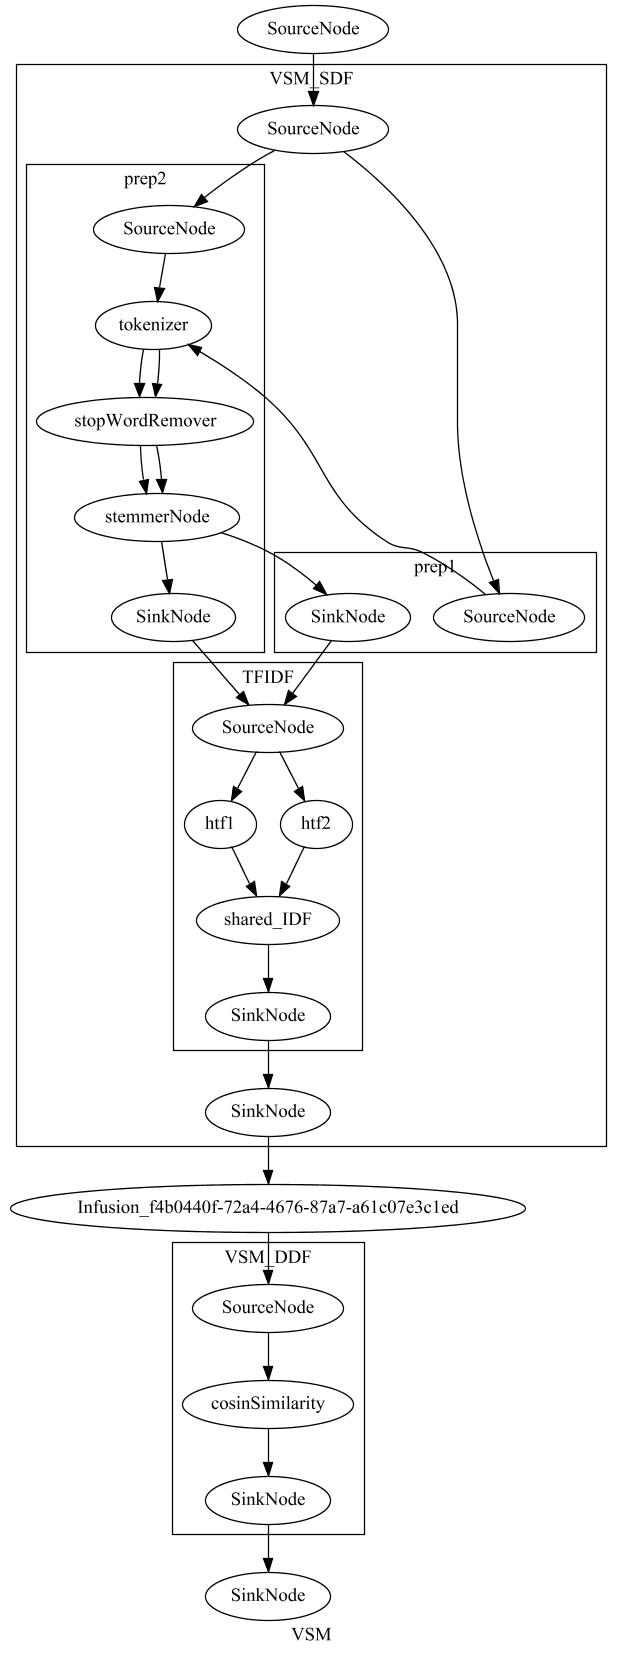
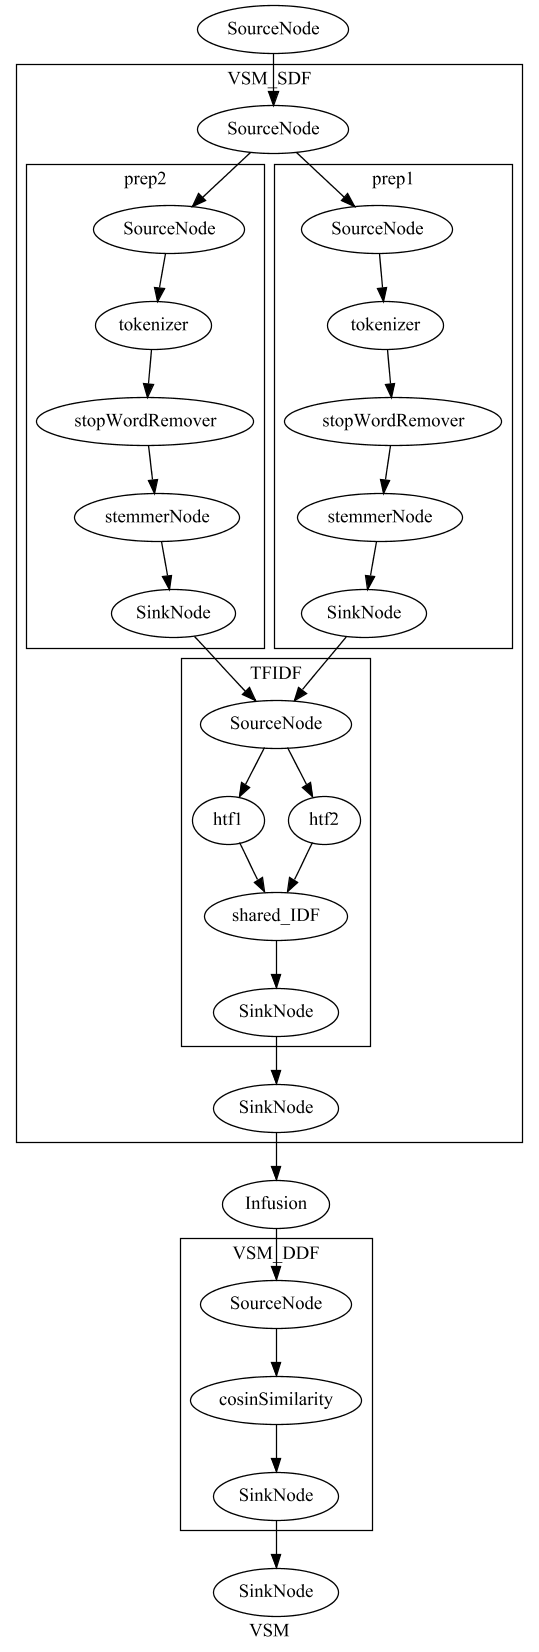
fixed the viz bug

Changed region(s): [[0.1187, 0.0, 0.9796, 1.0], [0.0, 0.0309, 0.0891, 0.71], [0.8312, 0.3087, 0.8609, 0.3396]]

diff --git a/src/main/java/core/graphPipeline/basic/SGraph.java b/src/main/java/core/graphPipeline/basic/SGraph.java
@@ -470,24 +470,22 @@ public class SGraph extends Vertex implements SDFInterface {
     }
 
     public MutableGraph getVizGraph() {
-        MutableGraph g = mutGraph(getVertexId()).setDirected(true).setCluster(true);
+        String vertexPath = getVertexPath();
+        MutableGraph g = mutGraph(vertexPath).setDirected(true).setCluster(true);
         g.graphAttrs().add(Label.of(getVertexId()));
         for (Vertex vertex : this.getNodes()) {
             if (vertex instanceof SNode) {
                 SNode v = (SNode) vertex;
-                if (v.getSparkPipelineStage() instanceof InfusionStage || v instanceof TransparentSNode) {
-                    int i = 0;
-                }
                 String nodeTitle = v.getVertexId();
                 //Simplify the node name
                 if (nodeTitle.startsWith("SourceNode")) {
                     nodeTitle = "SourceNode";
                 } else if (nodeTitle.startsWith("SinkNode")) {
                     nodeTitle = "SinkNode";
-                } else if (nodeTitle.startsWith("infusion")) {
+                } else if (nodeTitle.startsWith("Infusion")) {
                     nodeTitle = "Infusion";
                 }
-                MutableNode vNode = mutNode(v.getVertexId()).add(Label.of(nodeTitle));
+                MutableNode vNode = mutNode(v.getVertexPath()).add(Label.of(nodeTitle));
                 for (Vertex outputNode : v.getOutputVertices()) { //note: sink node have no outputVertices, parent graph hold this information
                     vNode = createVizEdge(vNode, outputNode);
                 }
@@ -497,7 +495,7 @@ public class SGraph extends Vertex implements SDFInterface {
                 SGraph v = (SGraph) vertex;
                 MutableGraph subGraph = v.getVizGraph();
                 Vertex sinkNode = v.sinkNode;
-                MutableNode innerSink = mutNode(sinkNode.getVertexId()).add(Label.of("SinkNode"));
+                MutableNode innerSink = mutNode(sinkNode.getVertexPath()).add(Label.of("SinkNode"));
                 for (Vertex outputNode : vertex.getOutputVertices()) {
                     innerSink = createVizEdge(innerSink, outputNode);
                 }
@@ -509,12 +507,12 @@ public class SGraph extends Vertex implements SDFInterface {
 
     private MutableNode createVizEdge(MutableNode vizFromNode, Vertex outputNode) {
         if (outputNode instanceof SNode) {
-            vizFromNode = vizFromNode.addLink(outputNode.getVertexId());
+            vizFromNode = vizFromNode.addLink(outputNode.getVertexPath());
         } else {
             SGraph subGraph = (SGraph) outputNode;
             SNode innerSource = subGraph.sourceNode;
             MutableGraph innerGraph = subGraph.getVizGraph();// create inner graph, this graph is implicitly added to the parent
-            vizFromNode = vizFromNode.addLink(innerSource.getVertexId());
+            vizFromNode = vizFromNode.addLink(innerSource.getVertexPath());
         }
         return vizFromNode;
     }
@@ -557,7 +555,7 @@ public class SGraph extends Vertex implements SDFInterface {
     }
 
     @Override
-    public Set<String> getSourceSDFOutput()  {
+    public Set<String> getSourceSDFOutput() {
         Set<String> symbolNames = splitSDFOutputs().getKey();
         return getSymbolValuesByName(symbolNames);
     }

diff --git a/src/main/java/core/graphPipeline/basic/Vertex.java b/src/main/java/core/graphPipeline/basic/Vertex.java
@@ -157,6 +157,22 @@ abstract public class Vertex {
         return vertexId;
     }
 
+    /**
+     * Get the global path of the vertex in the whole graph
+     *
+     * @return
+     */
+    public String getVertexPath() {
+        String prefix = "";
+        if (getContext() != null) {
+            prefix = getContext().getVertexPath();
+        }
+        StringJoiner joiner = new StringJoiner("_");
+        joiner.add(prefix);
+        joiner.add(getVertexId());
+        return joiner.toString();
+    }
+
     public void setVertexId(String vertexId) {
         this.vertexId = vertexId;
     }
